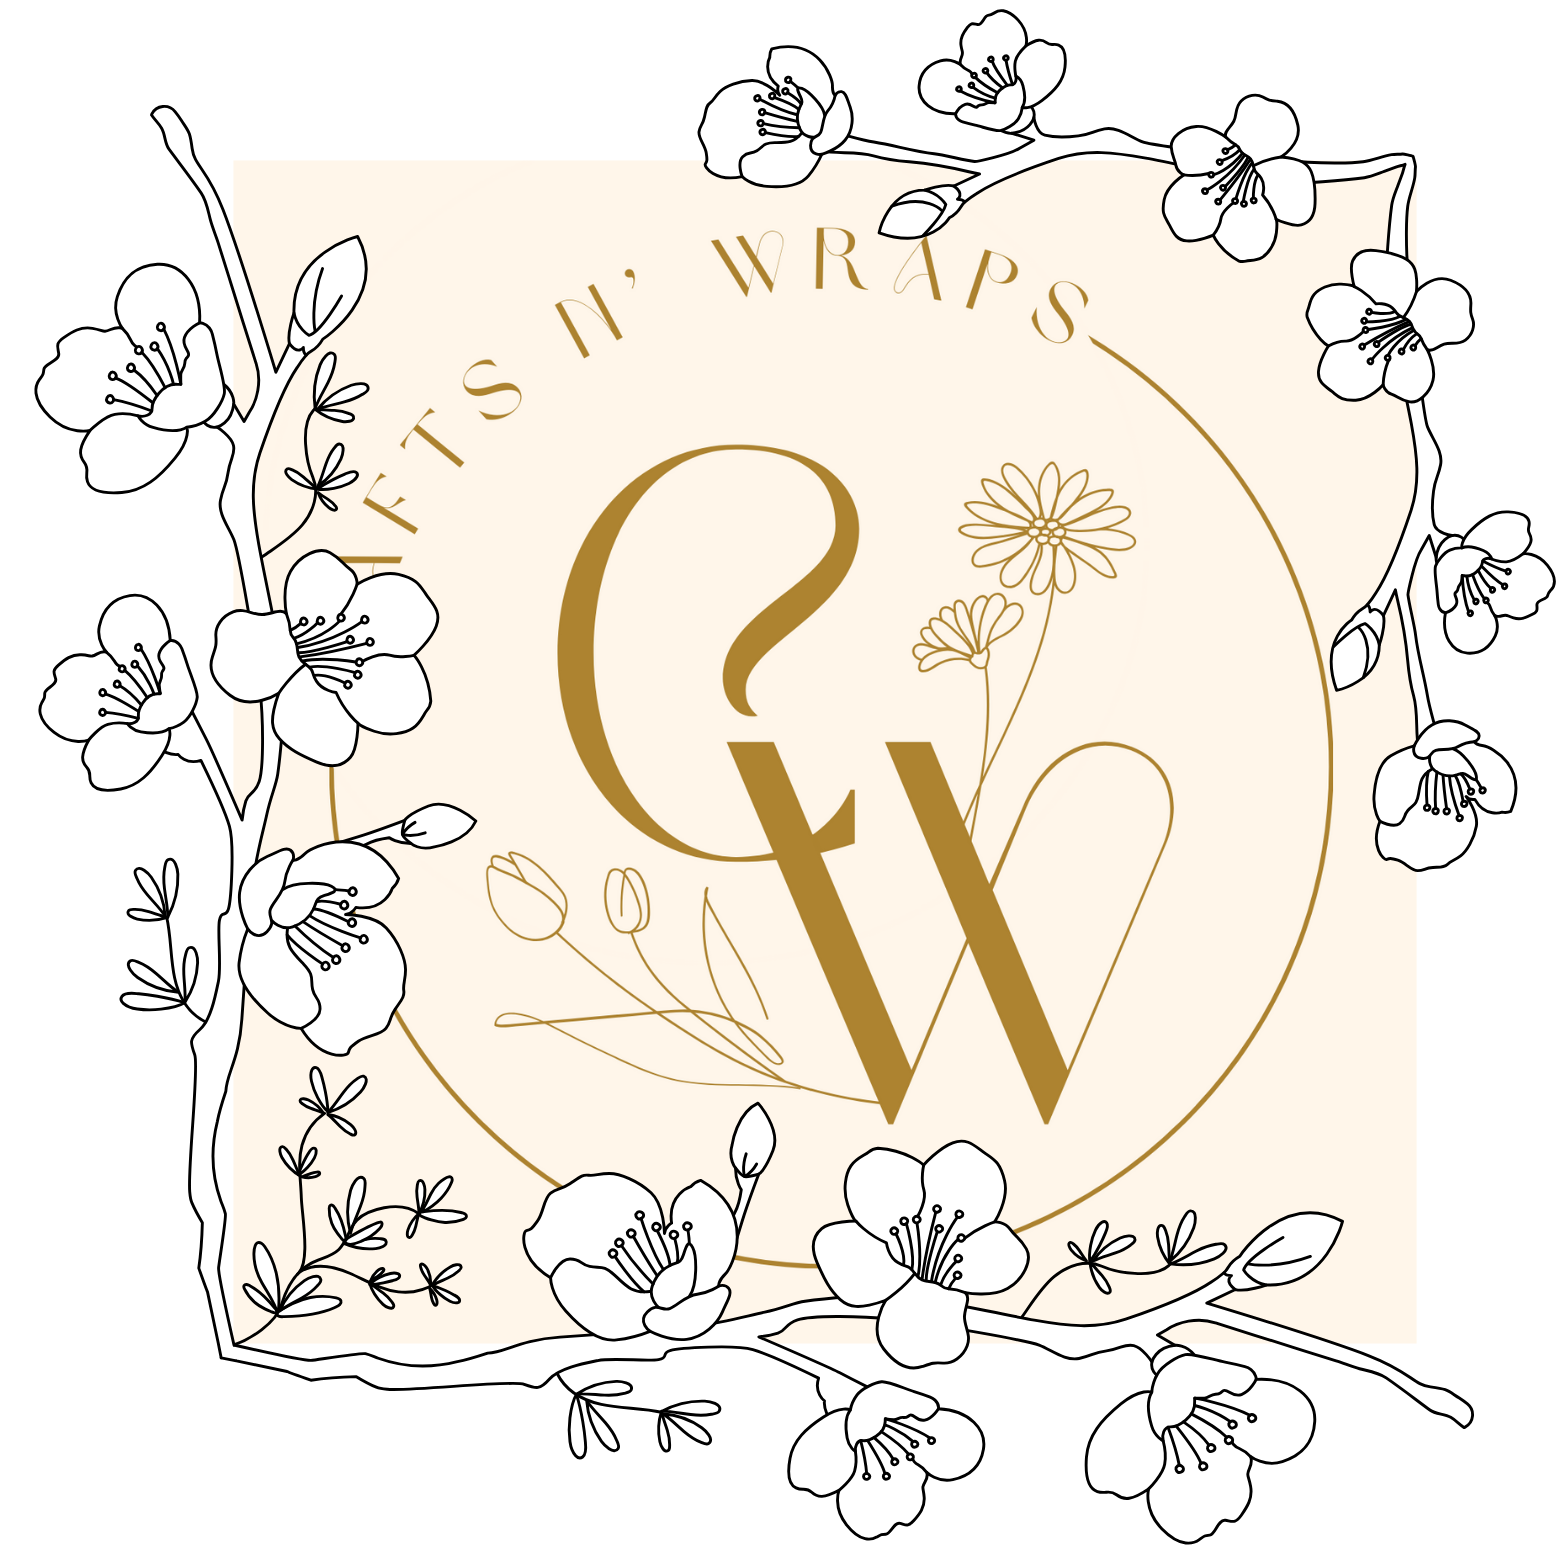
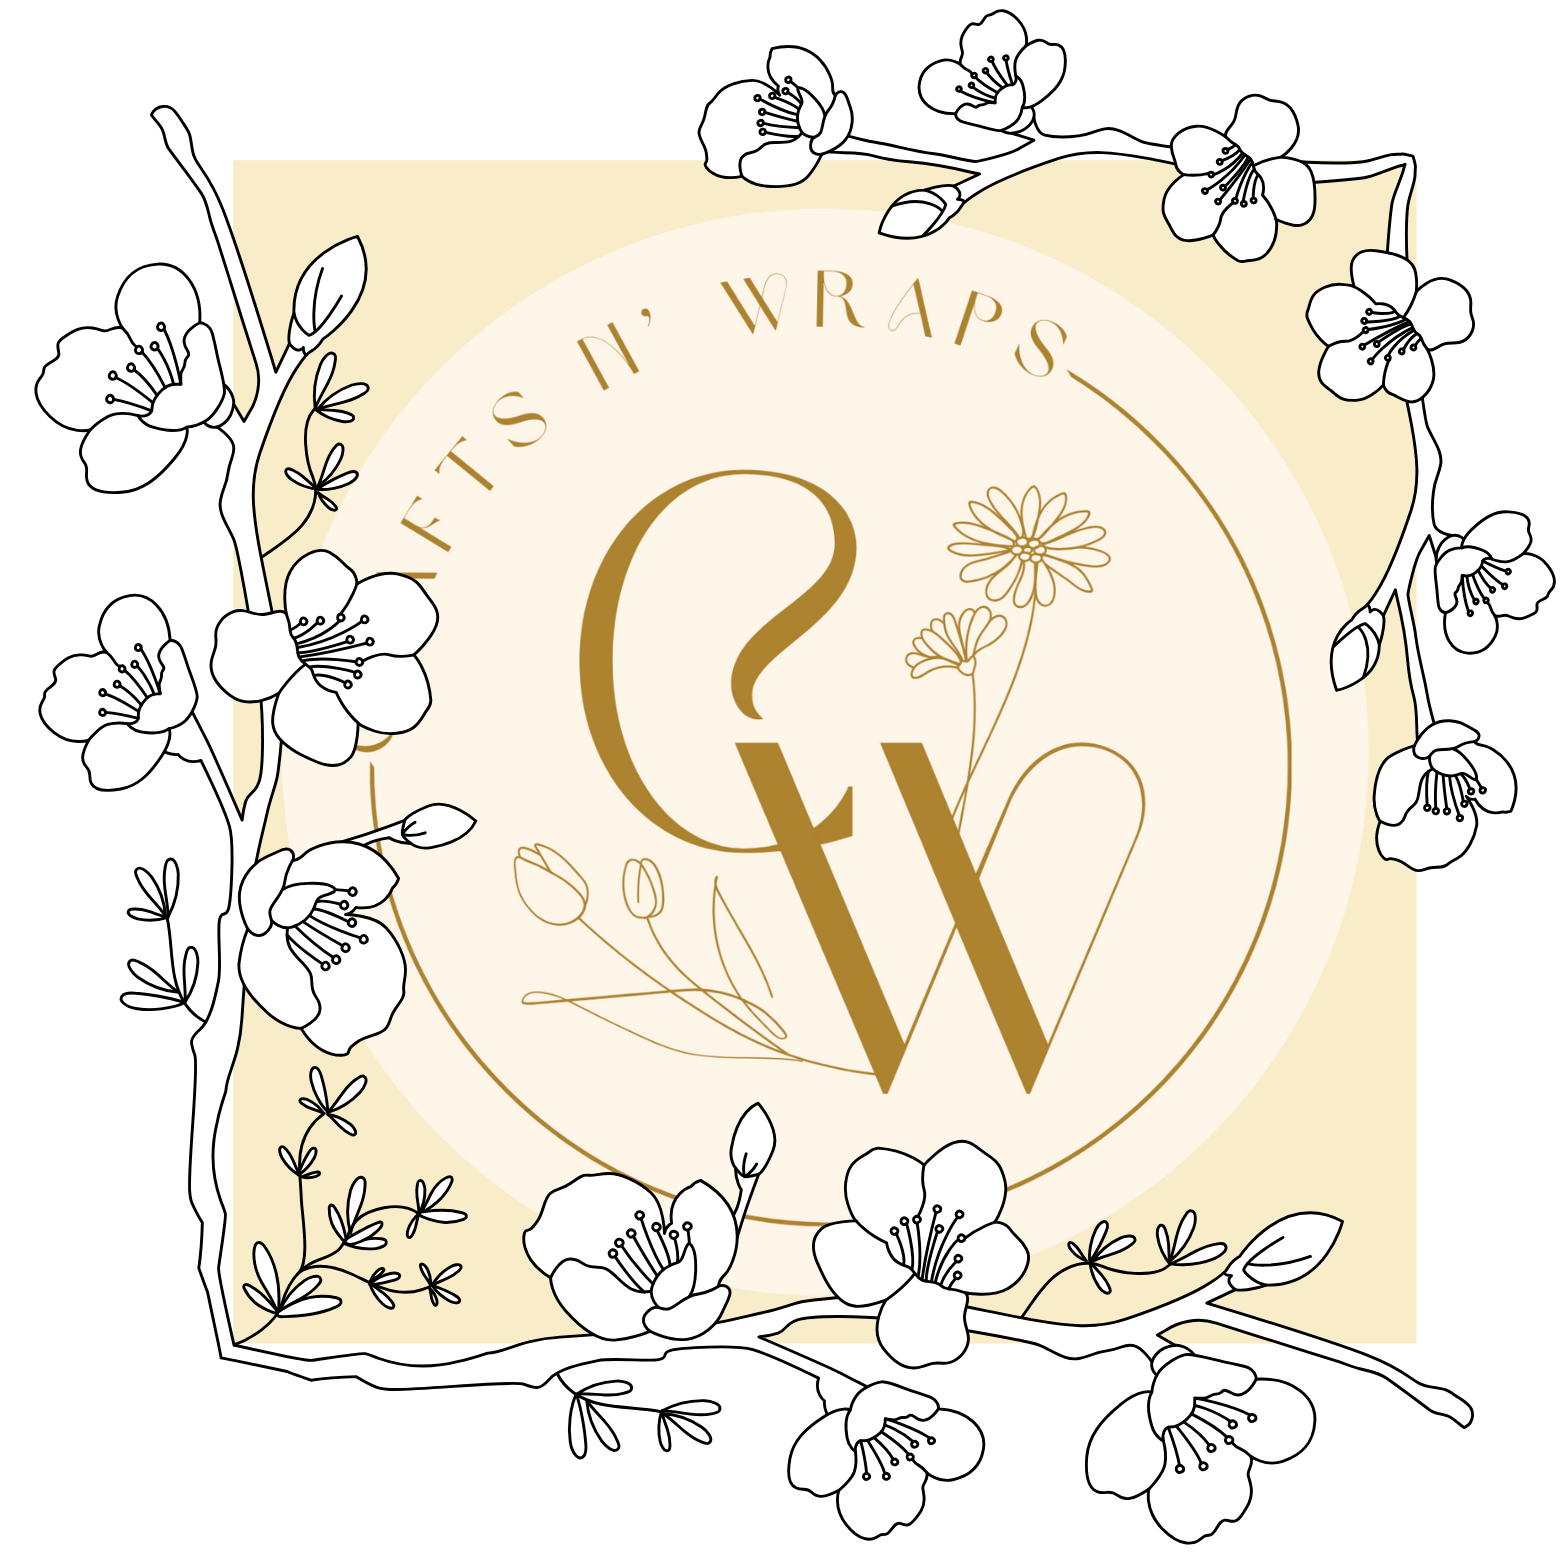
Add About section with improved layout and founder details

diff --git a/public/css/custom.css b/public/css/custom.css
@@ -1,3 +1,4 @@
+/* HOMEPAGE */
 /* NAVBAR */
 /* Apply margin to the logo container */
 .navbar-brand {
@@ -89,24 +90,50 @@
     box-shadow: none; /* Removes any shadow effect */
 }
 
-/* Navbar text color */
-.navbar-brand {
-    color: #B78D89; /* Dusty Mauve */
+/* Navbar Logo */
+.logo-img {
+    max-width: 200px;
 }
 
+/* Navbar Links */
 .navbar-nav .nav-link {
-    color: #B78D89; /* Dusty Mauve */
+    font-size: 18px;
+    font-weight: 500;
+    color: #7D6E6E; /* Modern muted tone */
+    transition: color 0.3s ease-in-out;
 }
 
 .navbar-nav .nav-link:hover {
-    color: #D6A14A; /* Soft Gold */
+    color: #5D6E54; /* Match theme color */
+}
+
+/* Modern Search Bar */
+.modern-search {
+    border-radius: 50px;
+    border: 1px solid #ccc;
+    padding: 10px 15px;
+    padding-left: 40px;
+    transition: all 0.3s ease-in-out;
+    width: 200px; /* Adjust as needed */
+}
+
+.modern-search:focus {
+    border-color: #5D6E54;
+    box-shadow: 0 0 8px rgba(93, 110, 84, 0.3);
+    outline: none;
+}
+
+/* Cart Icon Badge */
+.cart-badge {
+    font-size: 12px;
+    padding: 3px 7px;
 }
 
 
 /* HERO SECTION */
 /* Body background color */
 body {
-    background-color: #f4f3f0; /* Soft neutral beige/ivory */
+    background-color: #FEFBE9; /* Soft neutral beige/ivory */
     color: #333333; /* Dark gray font color for text */
     font-family: Arial, sans-serif; /* Font family */
 }
@@ -128,7 +155,7 @@ a:hover {
 
 /* Button style */
 button, .shop-now-btn {
-    background-color: #8a5d4d; /* Accent color for buttons */
+    background-color: #5D6E54; /* Accent color for buttons */
     color: #fff; /* Button text color */
     border: none;
     padding: 10px 20px;
@@ -137,7 +164,7 @@ button, .shop-now-btn {
 }
 
 button:hover, .shop-now-btn:hover {
-    background-color: #6c3b2e; /* Darker shade for hover */
+    background-color: #495C42; /* Darker shade for hover */
 }
 
 /* FONTS */
@@ -158,4 +185,35 @@ body {
     font-size: 1.2rem;
 }
 
+/* ABOUT PAGE */
+.about-section {
+    padding: 50px 0;
+}
 
+.founder-img {
+    width: 80%;
+    max-width: 350px;
+    border-radius: 15px; /* Rounded corners */
+}
+
+.logo-container {
+    margin-top: 10px;
+}
+
+.about-logo {
+    width: 160px; /* Adjust as needed */
+    height: auto;
+}
+
+.about-title {
+    font-size: 2.5rem;
+    font-weight: bold;
+    color: #5D6E54; /* Match your theme */
+    margin-bottom: 20px;
+}
+
+.about-text {
+    font-size: 1.2rem;
+    color: #333;
+    line-height: 1.6;
+}

diff --git a/resources/views/partials/_navbar.blade.php b/resources/views/partials/_navbar.blade.php
@@ -1,28 +1,44 @@
 <!-- resources/views/partials/_navbar.blade.php -->
-<nav class="navbar navbar-expand-lg navbar-light">
-    <!-- Logo Holder -->
-    <a class="navbar-brand" href="{{ url('/') }}">
+<nav class="navbar navbar-expand-lg navbar-light px-4">
+    <div class="container-fluid">
+        <!-- Logo -->
+        <a class="navbar-brand me-auto" href="{{ url('/') }}">
         <img src="{{ asset('images/logo.png') }}" alt="Crafts N' Wraps Logo" class="img-fluid" style="max-width: 250px;">
-    </a>
-    <button class="navbar-toggler" type="button" data-bs-toggle="collapse" data-bs-target="#navbarNav" aria-controls="navbarNav" aria-expanded="false" aria-label="Toggle navigation">
-        <span class="navbar-toggler-icon"></span>
-    </button>
-    <div class="collapse navbar-collapse" id="navbarNav">
-        <!-- Navbar items (Home, About, etc.) -->
-        <ul class="navbar-nav custom-nav-links ms-auto"> <!-- Align navbar items -->
-            <li class="nav-item"><a class="nav-link" href="{{ url('/') }}">Home</a></li>
-            <li class="nav-item"><a class="nav-link" href="{{ url('/about') }}">About</a></li>
-            <li class="nav-item"><a class="nav-link" href="{{ url('/products') }}">Products</a></li>
-            <li class="nav-item"><a class="nav-link" href="{{ url('/contact') }}">Contact</a></li>
-        </ul>
-        
-        <!-- Search Bar and Cart (Right-aligned) -->
-        <div class="d-flex align-items-center ms-auto"> <!-- Separate container for the search and cart -->
-            <div class="search-bar me-3">
-                <input type="text" class="form-control" placeholder="Search...">
+        </a>
+
+
+        <!-- Navbar Toggler (For Mobile View) -->
+        <button class="navbar-toggler" type="button" data-bs-toggle="collapse" data-bs-target="#navbarNav" aria-controls="navbarNav" aria-expanded="false" aria-label="Toggle navigation">
+            <span class="navbar-toggler-icon"></span>
+        </button>
+
+        <!-- Navbar Items -->
+        <div class="collapse navbar-collapse justify-content-center" id="navbarNav">
+            <ul class="navbar-nav gap-4"> <!-- Even spacing between buttons -->
+                <li class="nav-item"><a class="nav-link" href="{{ url('/') }}">Home</a></li>
+                <li class="nav-item"><a class="nav-link" href="{{ url('/about') }}">About</a></li>
+                <li class="nav-item"><a class="nav-link" href="{{ url('/products') }}">Products</a></li>
+                <li class="nav-item"><a class="nav-link" href="{{ url('/contact') }}">Contact</a></li>
+            </ul>
+        </div>
+
+        <!-- Right Section: Search Bar, Cart, Profile -->
+        <div class="d-flex align-items-center gap-3">
+            <!-- Modern Search Bar -->
+            <div class="search-bar position-relative">
+                <input type="text" class="form-control modern-search ps-5" placeholder="Search...">
+                <i class="bi bi-search position-absolute top-50 start-0 translate-middle-y ms-3 text-muted"></i>
             </div>
-            <div class="cart-icon">
+
+            <!-- Cart Icon with Item Count -->
+            <div class="cart-icon position-relative">
                 <i class="bi bi-cart3 fs-3"></i>
+                <span class="cart-badge position-absolute top-0 start-100 translate-middle badge rounded-pill bg-danger">3</span> <!-- Example count -->
+            </div>
+
+            <!-- Profile Icon -->
+            <div class="profile-icon">
+                <i class="bi bi-person-circle fs-3"></i>
             </div>
         </div>
     </div>

diff --git a/resources/views/about.blade.php b/resources/views/about.blade.php
@@ -1,7 +1,41 @@
-<!-- resources/views/about.blade.php -->
 @extends('layouts.app')
 
 @section('content')
-<h1>About Us</h1>
-<p>Information about your company.</p>
-@endsection
+<div class="container about-section">
+    <div class="row align-items-center">
+        <!-- Left Section: Images -->
+        <div class="col-lg-6 text-center">
+            <img src="{{ asset('images/founders.jpg') }}" alt="Founder" class="founder-img mb-3">
+            <div class="logo-container d-flex justify-content-center">
+                <img src="{{ asset('images/logo1.png') }}" alt="CNW Logo 1" class="about-logo me-2">
+                <img src="{{ asset('images/logo2.png') }}" alt="CNW Logo 2" class="about-logo ms-2">
+            </div>
+        </div>
+
+        <!-- Right Section: Text Content -->
+        <div class="col-lg-6">
+            <h1 class="about-title">About Us</h1>
+            <p class="about-text">
+                Founded in 2024, Crafts N’ Wraps (CNW) began as a small passion project. Today, we are proud to have 
+                grown into a beloved local business known for our handcrafted gifts, creative arrangements, and 
+                personalized accessories. 
+            </p>
+            <p class="about-text">
+                From elegant bouquets to unique handmade keepsakes, we offer a variety of thoughtfully crafted 
+                products perfect for any occasion. Whether you're celebrating a milestone, expressing gratitude, or 
+                simply looking for a heartfelt gift, our creations are designed to make every moment special.  
+            </p>
+            <p class="about-text">
+                Guided by our motto, <strong>"Creating Eternal Treasures Embraced by the Heart,"</strong> we are 
+                dedicated to providing high-quality, meaningful gifts that leave a lasting impression. At CNW, 
+                every piece is made with passion, creativity, and a deep appreciation for the art of gifting.
+            </p>
+        </div>
+    </div>
+
+    <div class="row mt-4 text-center">
+        <p class="about-text text-muted mb-0"><em>Crafts N’ Wraps est. 2024</em></p>
+        <p class="about-text text-muted"><em>Founded by Princess Diane Rosana and Johanna Fae Balasta</em></p>
+    </div>
+</div>
+@endsection  

diff --git a/resources/views/layouts/app.blade.php b/resources/views/layouts/app.blade.php
@@ -9,8 +9,9 @@
     <link href="https://cdn.jsdelivr.net/npm/bootstrap-icons/font/bootstrap-icons.css" rel="stylesheet">
     <link href="https://fonts.googleapis.com/css2?family=Poppins:wght@300;400;600;700&display=swap" rel="stylesheet">
     <link rel="stylesheet" href="{{ asset('css/custom.css') }}">
+    <link rel="icon" type="image/png" href="{{ asset('images/favicon.png') }}">
 
-    
+
 </head>
 <body>
     <!-- Include Navbar -->
